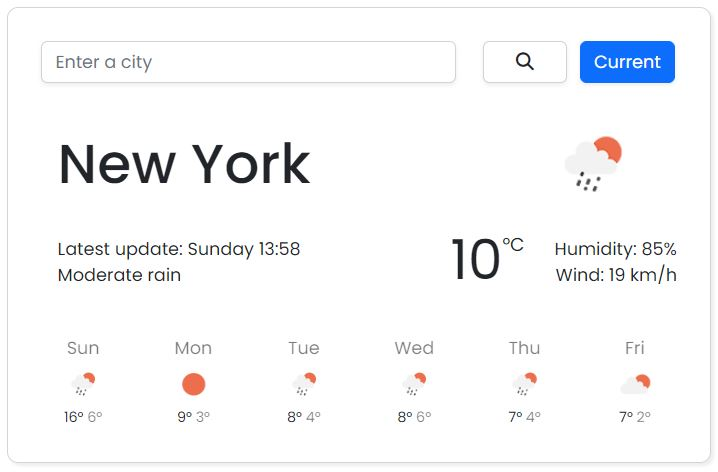
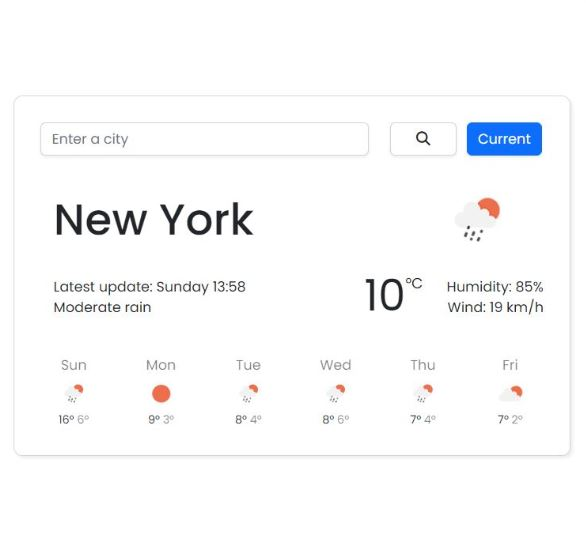
populated projects.html page

diff --git a/projects.html b/projects.html
@@ -4,7 +4,10 @@
     <meta charset="UTF-8" />
     <meta http-equiv="X-UA-Compatible" content="IE=edge" />
     <meta name="viewport" content="width=device-width, initial-scale=1.0" />
-    <meta name="description" content="Look at the front-end development projects from Tania Pichierri">
+    <meta
+      name="description"
+      content="Look at the front-end development projects from Tania Pichierri"
+    />
     <title>Front-end Development Projects - Tania Pichierri</title>
 
     <link
@@ -14,18 +17,28 @@
       crossorigin="anonymous"
     />
     <link rel="stylesheet" href="/css/styles.css" />
-    
-    <link rel="preconnect" href="https://fonts.googleapis.com">
-    <link rel="preconnect" href="https://fonts.gstatic.com" crossorigin>
-    <link href="https://fonts.googleapis.com/css2?family=Lora:wght@400;500;700&family=Nunito:wght@200;300;400;500;700&display=swap" rel="stylesheet">   
 
-    <script src="https://kit.fontawesome.com/3f2efdf1ae.js" crossorigin="anonymous"></script>
-    
+    <link rel="preconnect" href="https://fonts.googleapis.com" />
+    <link rel="preconnect" href="https://fonts.gstatic.com" crossorigin />
+    <link
+      href="https://fonts.googleapis.com/css2?family=Lora:wght@400;500;700&family=Nunito:wght@200;300;400;500;700&display=swap"
+      rel="stylesheet"
+    />
+
+    <script
+      src="https://kit.fontawesome.com/3f2efdf1ae.js"
+      crossorigin="anonymous"
+    ></script>
   </head>
   <body>
     <nav class="navbar navbar-expand-lg fixed-top">
       <div class="container">
-        <a class="navbar-brand" href="index.html" title="Tania Pichierri Homepage">Tania Pichierri</a>
+        <a
+          class="navbar-brand"
+          href="index.html"
+          title="Tania Pichierri Homepage"
+          >Tania Pichierri</a
+        >
         <button
           class="navbar-toggler"
           type="button"
@@ -40,51 +53,66 @@
         <div class="collapse navbar-collapse" id="navbarNav">
           <ul class="navbar-nav">
             <li class="nav-item">
-              <a class="nav-link" aria-current="page" href="/" title="Home">Home</a>
+              <a class="nav-link" aria-current="page" href="/" title="Home"
+                >Home</a
+              >
             </li>
             <li class="nav-item">
-              <a class="nav-link " href="about.html" title="About">About</a>
+              <a class="nav-link" href="about.html" title="About">About</a>
             </li>
             <li class="nav-item">
-                  <a class="nav-link on-page" href="/projects.html" title="Projects">Projects</a>
-                </li>
+              <a class="nav-link on-page" href="/projects.html" title="Projects"
+                >Projects</a
+              >
+            </li>
             <li class="nav-item">
-              <a class="nav-link" href="/contact.html" title="Contact me">Contact me</a>
+              <a class="nav-link" href="/contact.html" title="Contact me"
+                >Contact me</a
+              >
             </li>
           </ul>
         </div>
       </div>
     </nav>
-    
-    <h1>Projects</h1>
-    <h2>Check out my front-end development projects</h2>
-    <p class="about-paragraph mt-3 text-center">
-      Lorem ipsum dolor sit amet, consectetur adipisicing elit. Numquam aperiam
-      provident tempora? Cumque adipisci, non dolorem quia, odit qui alias
-      veniam excepturi rem dolor fugit dignissimos, sed voluptatum blanditiis
-      harum.
-    </p>
-    <div class="container">
-      <div class="row mt-5">
-        <div class="col-sm-4">
-         <img src="/images/tango.png" class="img-fluid rounded tango-image shadow mb-4" alt="Tango Project"/>
-        </div>
-          <div class="col-sm-4">
-            
-            <img src="/images/weather.png" class="img-fluid rounded weather-image shadow mb-4" alt="weather app"/>
+    <div class="content-container container">
+      <div class="content">
+        <h1 class="mt-4">Projects</h1>
+        <div class="row">
+          <div class="col-sm-6">
+            <img
+              src="/images/tango.png"
+              class="img-fluid rounded tango-image shadow my-4"
+              alt="Tango Project"
+            />
+            <h3 class="text-center">Tango Project</h3>
+            <p class="mb-4 text-center text-muted projects-language">
+              Built with HTML and CSS
+            </p>
           </div>
-        
-            <div class="col-sm-4">
-              <img src="/images/certificate.png" class="img-fluid rounded certificate-image shadow mb-4" alt="Front-end Development Certificate"/>
+          <div class="col-sm-6">
+            <img
+              src="/images/weather.png"
+              class="img-fluid rounded weather-image shadow my-4"
+              alt="weather app"
+            />
+            <h3 class="text-center">Weather Project</h3>
+            <p class="mb-4 text-center text-muted projects-language">
+              Built with HTML, CSS and JS
+            </p>
+          </div>
+        </div>
       </div>
     </div>
     <footer id="contact">
       <h2 class="mt-5 contact-me">📮 Contact me</h2>
-      <a href="mailto:taniapichierri88@gmail.com" class="email-link" title="email address">
+      <a
+        href="mailto:taniapichierri88@gmail.com"
+        class="email-link"
+        title="email address"
+      >
         taniapichierri88@gmail.com
       </a>
-    <i class="fa-brands fa-linkedin center fa-2x"></i>
-
+      <i class="fa-brands fa-linkedin center fa-2x"></i>
     </footer>
     <script
       src="https://cdn.jsdelivr.net/npm/bootstrap@5.2.2/dist/js/bootstrap.bundle.min.js"
@@ -93,4 +121,3 @@
     ></script>
   </body>
 </html>
-

diff --git a/css/styles.css b/css/styles.css
@@ -98,21 +98,29 @@ h2 {
   display: block;
 }
 .content-container {
-  padding: 60px 20px;
+  padding: 100px 20px;
 }
 .content {
   margin: 10px 30px;
 }
-.content-container h1 {
+.content h1 {
   font-size: 70px;
   line-height: 80px;
 }
-.content-container h2 {
+.content h2 {
   text-align: start;
   font-size: 18px;
   font-weight: bold;
   line-height: 30px;
   font-family: var(--default-font-family);
+}
+.content h3 {
+  font-size: 24px;
+  font-family: var(--default-font-family);
+  margin-bottom: 0;
+}
+.projects-language {
+  font-size: 14px;
 }
 
 .headshot {
@@ -140,18 +148,18 @@ h2 {
   color: var(--secondary-color);
 }
 .project-description {
-  margin: 100px 30px;
+  margin: 20px 30px;
 }
 .tango-image {
   padding: 10px;
   border: 5px solid var(--primary-color);
 }
 .weather-image {
-  padding: 64px 10px;
+  padding: 28px 30px;
   border: 5px solid var(--primary-color);
 }
 .certificate-image {
-  padding: 58px 10px;
+  padding: 58px 20px;
   border: 5px solid var(--primary-color);
 }
 .center {
@@ -177,8 +185,8 @@ h2 {
   p {
     text-align: center;
   }
-  img {
-    margin-top: 50px;
+  .btn {
+    margin-bottom: 50px;
   }
 
   .paragraph-link {
@@ -231,6 +239,9 @@ h2 {
   }
   .btn-contact-link {
     font-size: 13px;
+  }
+  .btn {
+    margin-bottom: 50px;
   }
   .project-description {
     margin: 0px;

diff --git a/about.html b/about.html
@@ -57,9 +57,9 @@
     <div class="content-container container">
       <div class="row mt-5">
         <div class="col-sm-6">
-          <div class="content"></div>
-          <h1>Tania Pichierri</h1>
-          <h2>Front-end developer, based in Switzerland</h2>
+          <div class="content">
+            <h1>Tania Pichierri</h1>
+            <h2>Front-end developer, based in Switzerland</h2>
             <p class="about-paragraph text-muted mt-3">
               Lorem ipsum dolor sit amet, consectetur adipisicing elit. Numquam aperiamprovident tempora? Cumque adipisci, non dolorem quia, odit qui alias veniam excepturi rem dolor fugit dignissimos, sed voluptatum blanditiis harum.
             </p>
@@ -67,11 +67,13 @@
               <a href="#" class="btn btn-primary-link mt-3" title="Launch front-end development projects">Launch projects</a>
             </div>
           </div>
-        <div class="col-sm-6">
+        </div>
+          <div class="col-sm-6">
             <img
             src="/images/headshot.png"
             class="img-fluid rounded headshot"
             alt="Tania Pichierri Headshot"/>
+          </div>
         </div>
       </div>
     </div>
